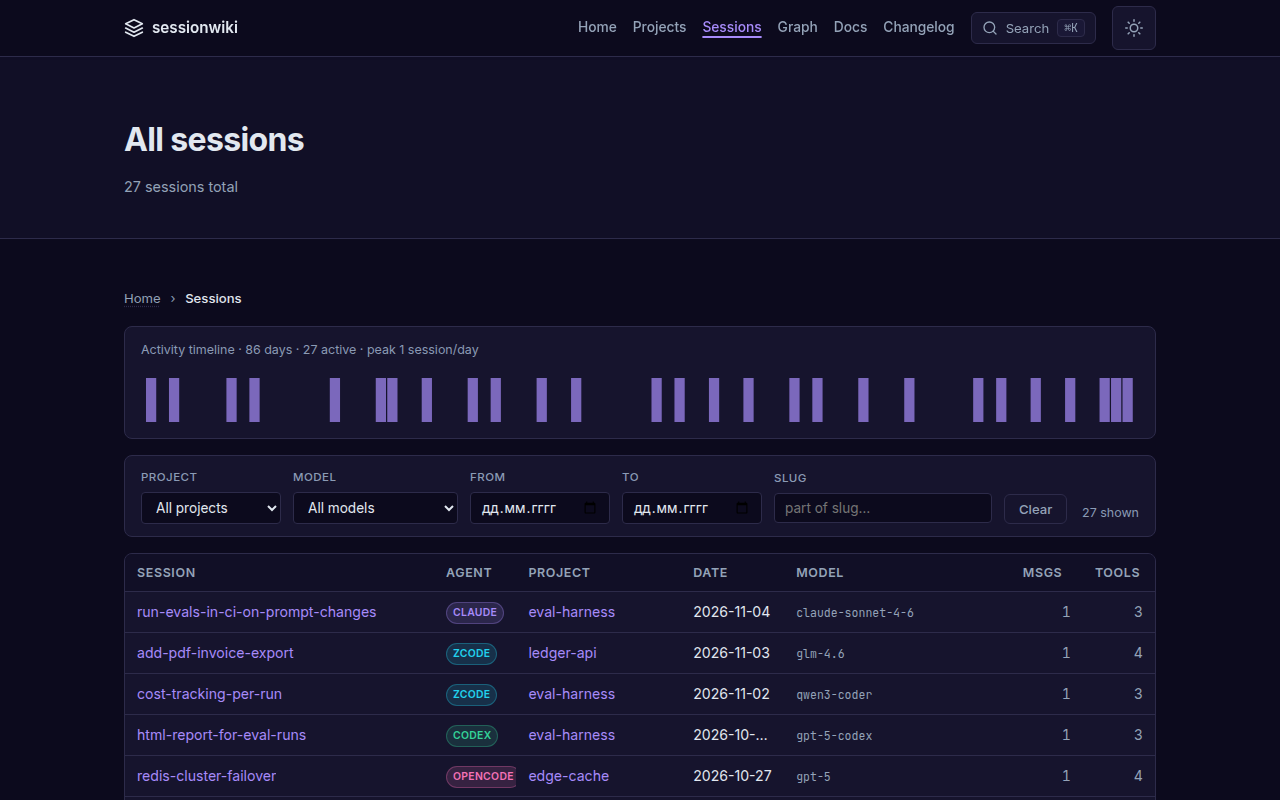
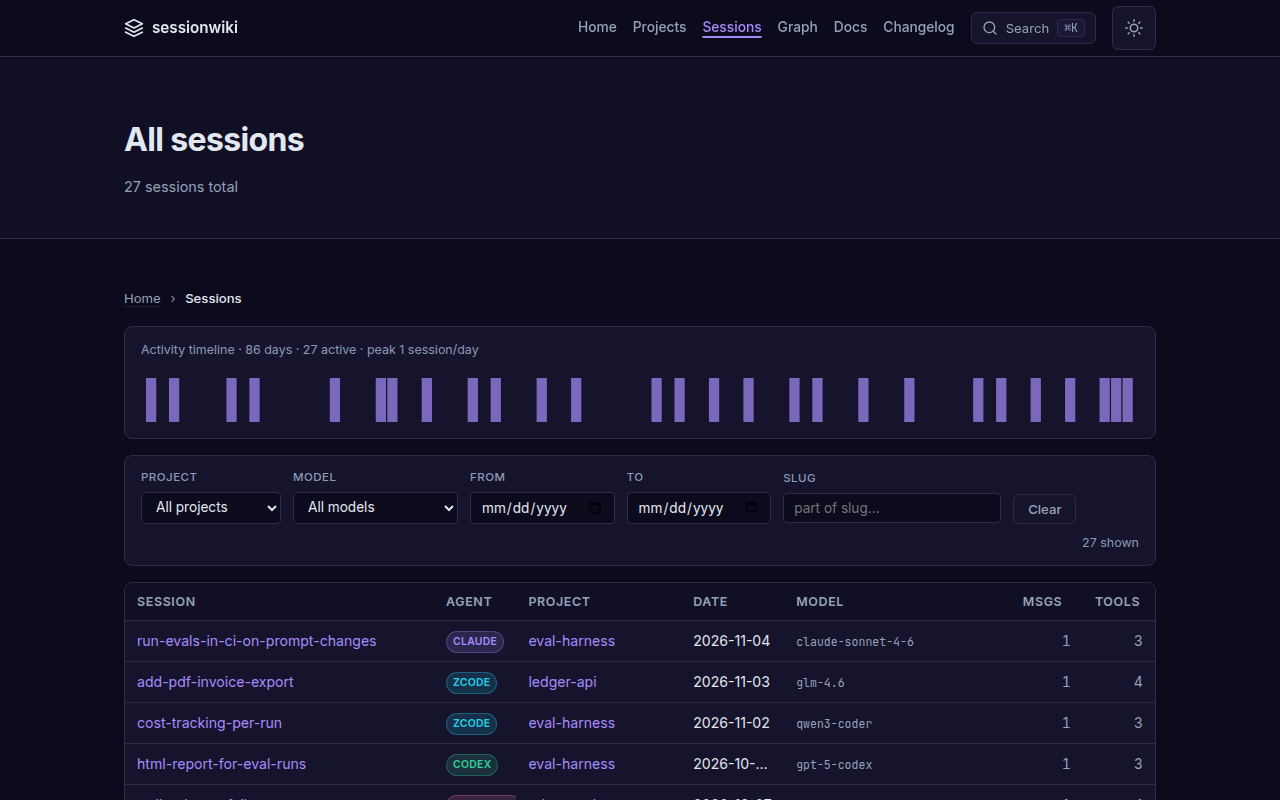
docs: take screenshots with an English browser UI (#26)
Chrome renders native widgets in its UI language, which follows the
system locale, so the sessions screenshot showed "дд.мм.гггг" in the
date filters. The screenshot script now launches the browser with
--lang=en-US / LANG=en_US.UTF-8 and an en-US, UTC context; the sessions
screenshot is regenerated.

diff --git a/scripts/regen_docs_screenshots.py b/scripts/regen_docs_screenshots.py
@@ -28,6 +28,7 @@ this and opens a PR with the changed images.
 from __future__ import annotations
 
 import argparse
+import os
 import shutil
 import subprocess
 import sys
@@ -102,8 +103,13 @@ def capture(site: Path, theme: str, channel: str | None) -> dict[str, bool]:
     changed: dict[str, bool] = {}
     try:
         with sync_playwright() as p:
-            browser = p.chromium.launch(channel=channel) if channel else p.chromium.launch()
-            ctx = browser.new_context(viewport={"width": 1280, "height": 800}, color_scheme=theme)
+            # Chrome draws native widgets (date inputs) in its UI language, which
+            # follows the system locale — pin it so screenshots are English.
+            launch = {"args": ["--lang=en-US"], "env": {**os.environ, "LANG": "en_US.UTF-8", "LANGUAGE": "en_US"}}
+            browser = p.chromium.launch(channel=channel, **launch) if channel else p.chromium.launch(**launch)
+            # Fixed locale/timezone so page-side formatting does not depend on the machine.
+            ctx = browser.new_context(viewport={"width": 1280, "height": 800}, color_scheme=theme,
+                                      locale="en-US", timezone_id="UTC")
             ctx.add_init_script(
                 f"try {{ localStorage.setItem('sessionwiki-theme', {theme!r}); }} catch (e) {{}}"
             )
